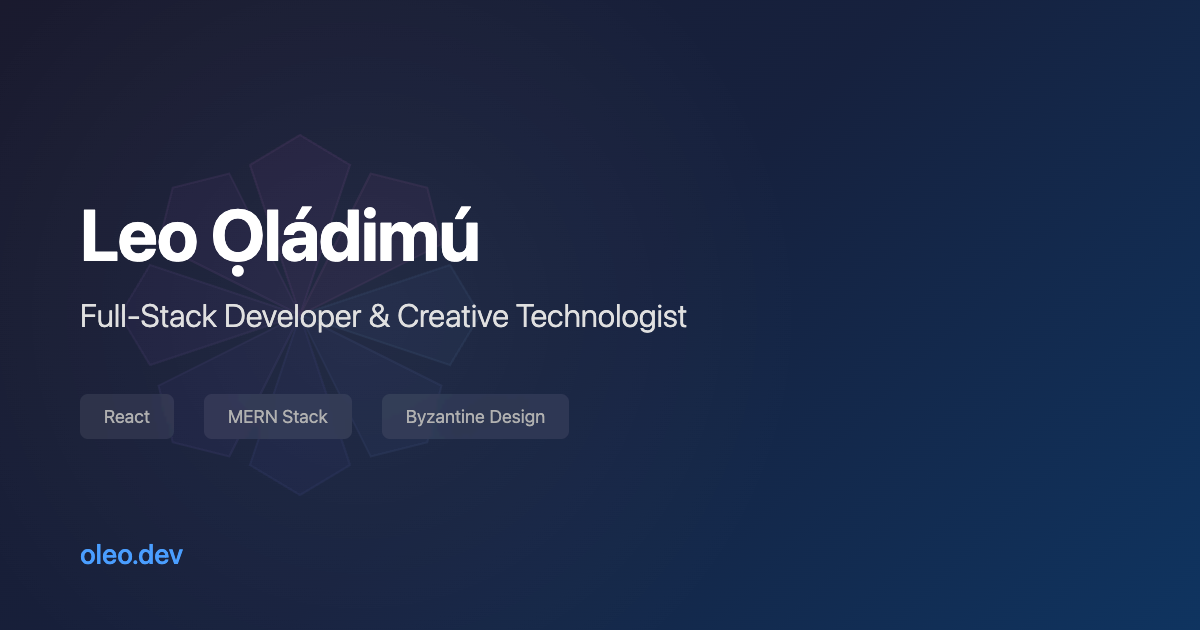
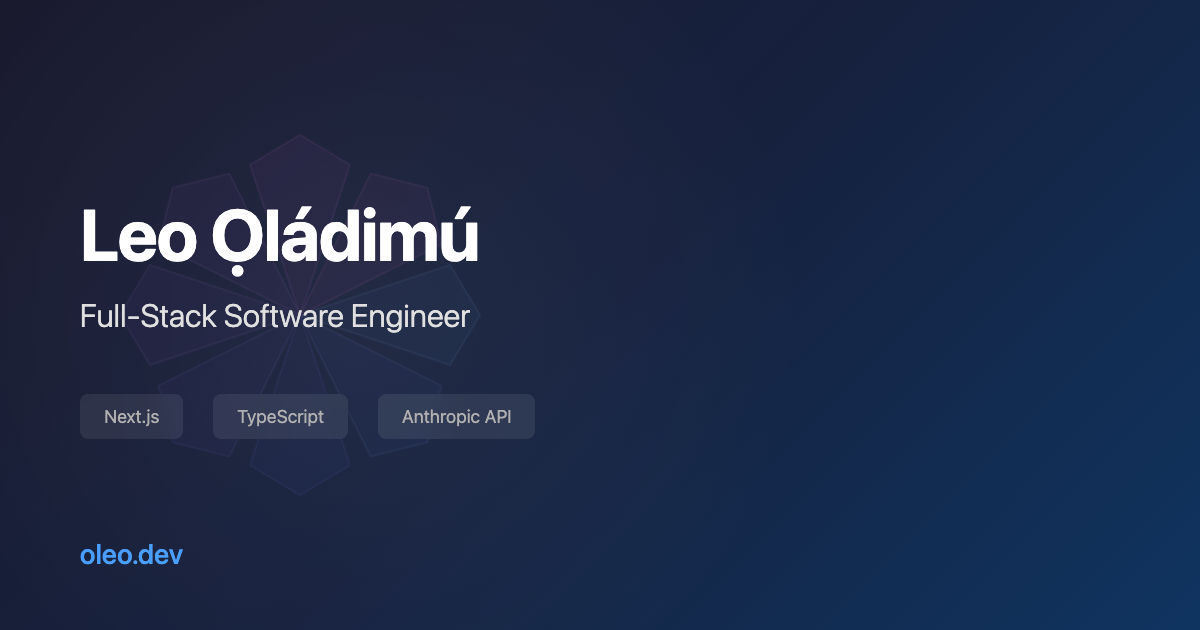
Update OG image and bust social cache with ?v=2

diff --git a/index.html b/index.html
@@ -7,17 +7,17 @@
     <title>Leo Ọládimú - Portfolio</title>
     
     <!-- Open Graph Meta Tags -->
-    <meta property="og:title" content="Leo Ọládimú - Full-Stack Developer" />
-    <meta property="og:description" content="Creative web development, React, Typescript, MERN" />
-    <meta property="og:image" content="https://oleo.dev/og-image.png" />
+    <meta property="og:title" content="Leo Ọládimú - Full-Stack Engineer" />
+    <meta property="og:description" content="AI Engineer · Next.js · TypeScript · Anthropic API" />
+    <meta property="og:image" content="https://oleo.dev/og-image.png?v=2" />
     <meta property="og:url" content="https://oleo.dev" />
     <meta property="og:type" content="website" />
     
     <!-- Twitter Card Meta Tags -->
     <meta name="twitter:card" content="summary_large_image" />
-    <meta name="twitter:title" content="Leo Ọládimú - Full-Stack Developer" />
-    <meta name="twitter:description" content="Creative web development, React, Typescript, MERN" />
-    <meta name="twitter:image" content="https://oleo.dev/og-image.png" />
+    <meta name="twitter:title" content="Leo Ọládimú - Full-Stack Software Engineer" />
+    <meta name="twitter:description" content="AI Engineer · Next.js · TypeScript · Anthropic API" />
+    <meta name="twitter:image" content="https://oleo.dev/og-image.png?v=2" />
   </head>
   <body>
     <div id="root"></div>

diff --git a/public/og-image.html b/public/og-image.html
@@ -86,11 +86,11 @@
         <div class="overlay"></div>
         <div class="content">
             <h1>Leo Ọládimú</h1>
-            <div class="subtitle">Full-Stack Developer & Creative Technologist</div>
+            <div class="subtitle">Full-Stack Software Engineer</div>
             <div class="features">
-                <div class="feature">React</div>
-                <div class="feature">MERN Stack</div>
-                <div class="feature">Innovative Design</div>
+                <div class="feature">Next.js</div>
+                <div class="feature">TypeScript</div>
+                <div class="feature">Anthropic API</div>
             </div>
         </div>
         <div class="domain">oleo.dev</div>
